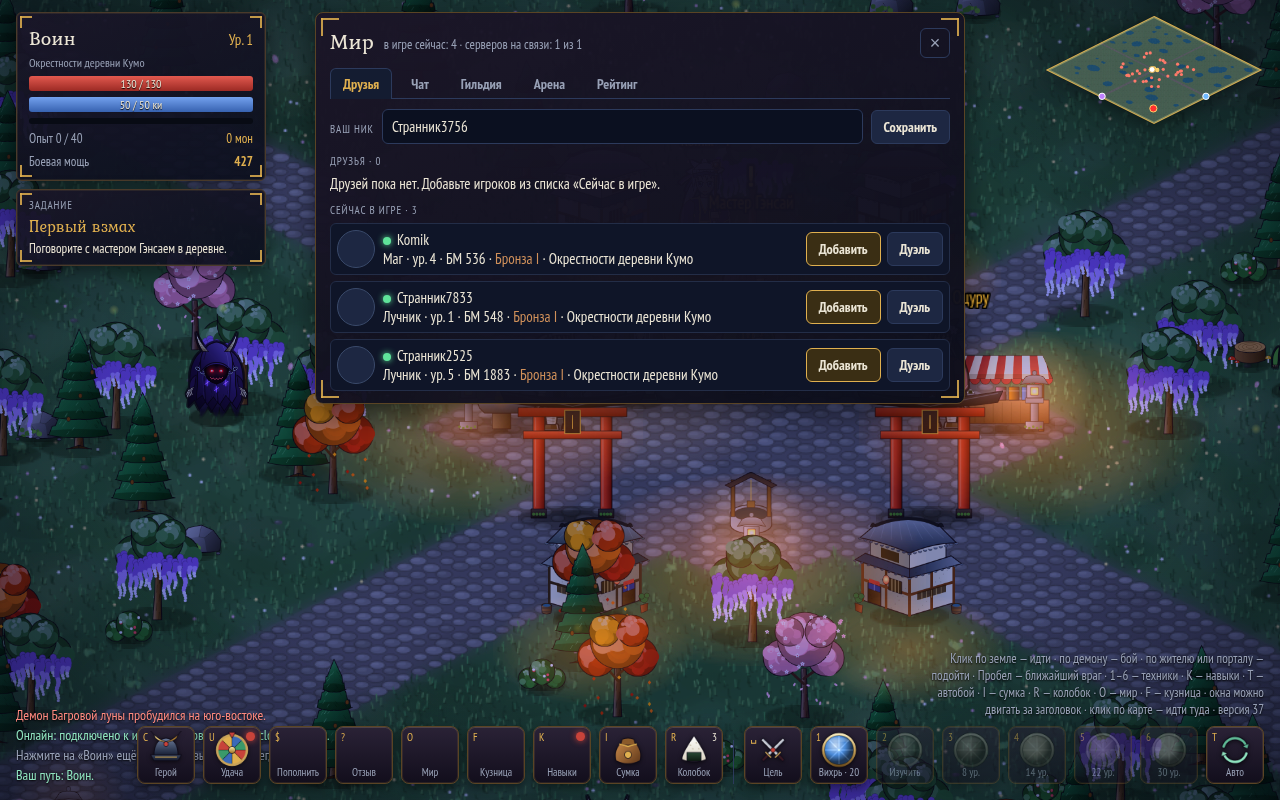
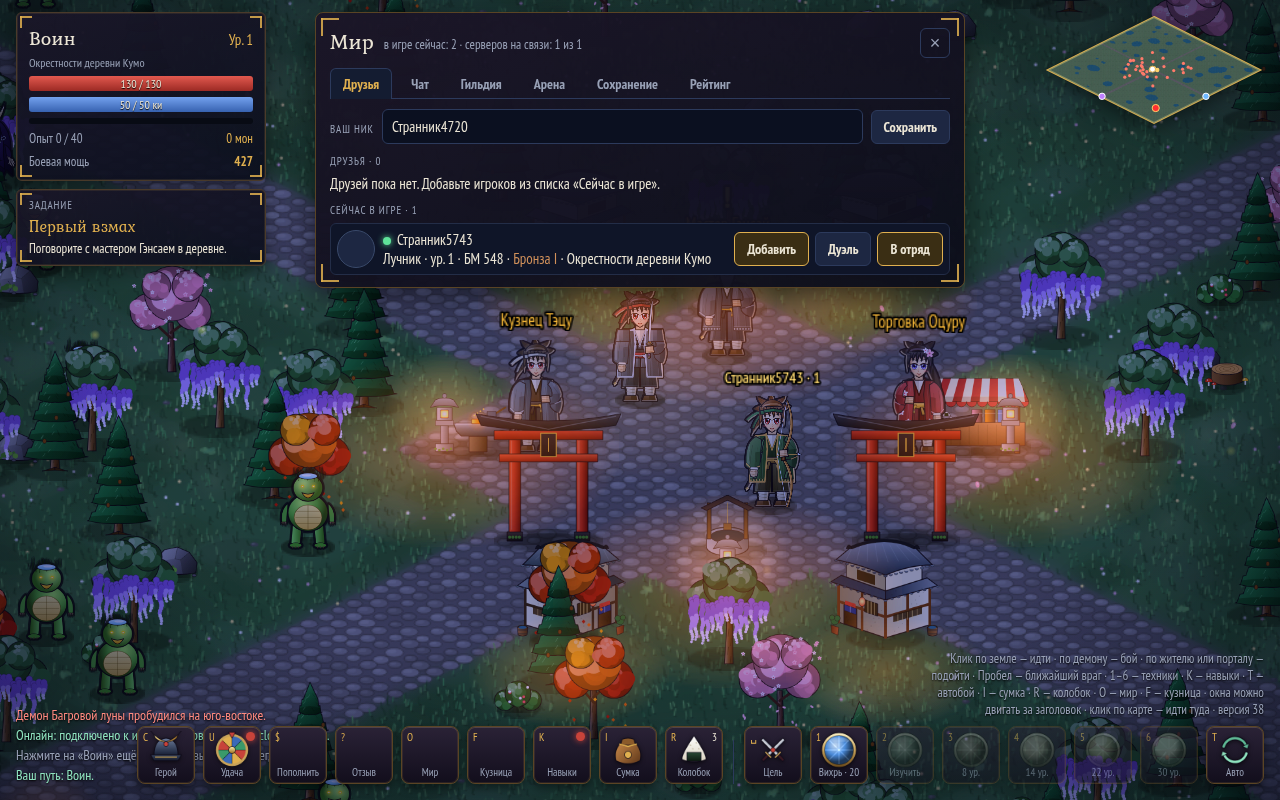
Проверка двумя браузерами

diff --git a/diag/e2e.md b/diag/e2e.md
@@ -1,32 +1,23 @@
 # Проверка двумя браузерами
 
-Время: 29.10.2026, 17:37:54
+Время: 29.10.2026, 18:44:15
 
 ## Браузер 1
 
-**Заголовок «Мир»:** в игре сейчас: 4 · серверов на связи: 1 из 1
+**Заголовок «Мир»:** в игре сейчас: 2 · серверов на связи: 1 из 1
 
 ```
 ВАШ НИК
 Сохранить
 ДРУЗЬЯ · 0
 Друзей пока нет. Добавьте игроков из списка «Сейчас в игре».
-СЕЙЧАС В ИГРЕ · 3
-術
-Komik
-Маг · ур. 4 · БМ 536 · Бронза I · Окрестности деревни Кумо
-Добавить
-Дуэль
+СЕЙЧАС В ИГРЕ · 1
 弓
-Странник7833
+Странник5743
 Лучник · ур. 1 · БМ 548 · Бронза I · Окрестности деревни Кумо
 Добавить
 Дуэль
-弓
-Странник2525
-Лучник · ур. 5 · БМ 1883 · Бронза I · Окрестности деревни Кумо
-Добавить
-Дуэль
+В отряд
 ```
 
 **Журнал игры:**
@@ -39,17 +30,14 @@ Komik
 
 **Консоль и сеть:**
 ```
-warning: [.WebGL-0x3ac4031db000]GL Driver Message (OpenGL, Performance, GL_CLOSE_PATH_NV, High): GPU stall due to ReadPixels
-warning: [.WebGL-0x3ac4031db000]GL Driver Message (OpenGL, Performance, GL_CLOSE_PATH_NV, High): GPU stall due to ReadPixels
-warning: [.WebGL-0x3ac4031db000]GL Driver Message (OpenGL, Performance, GL_CLOSE_PATH_NV, High): GPU stall due to ReadPixels
-warning: [.WebGL-0x3ac4031db000]GL Driver Message (OpenGL, Performance, GL_CLOSE_PATH_NV, High): GPU stall due to ReadPixels (this message will no longer repeat)
+warning: [.WebGL-0x3c3403059200]GL Driver Message (OpenGL, Performance, GL_CLOSE_PATH_NV, High): GPU stall due to ReadPixels
+warning: [.WebGL-0x3c3403059200]GL Driver Message (OpenGL, Performance, GL_CLOSE_PATH_NV, High): GPU stall due to ReadPixels
+warning: [.WebGL-0x3c3403059200]GL Driver Message (OpenGL, Performance, GL_CLOSE_PATH_NV, High): GPU stall due to ReadPixels
+warning: [.WebGL-0x3c3403059200]GL Driver Message (OpenGL, Performance, GL_CLOSE_PATH_NV, High): GPU stall due to ReadPixels (this message will no longer repeat)
 ws open wss://public.cloud.shiftr.io/
 ws sent 1 frames to wss://public.cloud.shiftr.io/
 ws sent 5 frames to wss://public.cloud.shiftr.io/
-ws open wss://public.cloud.shiftr.io/
-ws sent 1 frames to wss://public.cloud.shiftr.io/
-ws sent 5 frames to wss://public.cloud.shiftr.io/
-ws close wss://public.cloud.shiftr.io/
+ws sent 20 frames to wss://public.cloud.shiftr.io/
 ws open wss://public.cloud.shiftr.io/
 ws sent 1 frames to wss://public.cloud.shiftr.io/
 ws sent 5 frames to wss://public.cloud.shiftr.io/
@@ -58,45 +46,24 @@ ws open wss://public.cloud.shiftr.io/
 ws sent 1 frames to wss://public.cloud.shiftr.io/
 ws sent 5 frames to wss://public.cloud.shiftr.io/
 ws close wss://public.cloud.shiftr.io/
-ws open wss://public.cloud.shiftr.io/
-ws sent 1 frames to wss://public.cloud.shiftr.io/
-ws close wss://public.cloud.shiftr.io/
-ws sent 5 frames to wss://public.cloud.shiftr.io/
-ws open wss://public.cloud.shiftr.io/
-ws sent 1 frames to wss://public.cloud.shiftr.io/
-ws close wss://public.cloud.shiftr.io/
-ws sent 5 frames to wss://public.cloud.shiftr.io/
-ws open wss://public.cloud.shiftr.io/
-ws sent 1 frames to wss://public.cloud.shiftr.io/
-ws close wss://public.cloud.shiftr.io/
-ws sent 5 frames to wss://public.cloud.shiftr.io/
 ```
 
 ## Браузер 2
 
-**Заголовок «Мир»:** в игре сейчас: 4 · серверов на связи: 1 из 1
+**Заголовок «Мир»:** в игре сейчас: 2 · серверов на связи: 1 из 1
 
 ```
 ВАШ НИК
 Сохранить
 ДРУЗЬЯ · 0
 Друзей пока нет. Добавьте игроков из списка «Сейчас в игре».
-СЕЙЧАС В ИГРЕ · 3
+СЕЙЧАС В ИГРЕ · 1
 剣
-Странник3756
+Странник4720
 Воин · ур. 1 · БМ 427 · Бронза I · Окрестности деревни Кумо
 Добавить
 Дуэль
-術
-Komik
-Маг · ур. 4 · БМ 536 · Бронза I · Окрестности деревни Кумо
-Добавить
-Дуэль
-弓
-Странник2525
-Лучник · ур. 5 · БМ 1883 · Бронза I · Окрестности деревни Кумо
-Добавить
-Дуэль
+В отряд
 ```
 
 **Журнал игры:**
@@ -115,17 +82,10 @@ ws sent 5 frames to wss://public.cloud.shiftr.io/
 ws open wss://public.cloud.shiftr.io/
 ws sent 1 frames to wss://public.cloud.shiftr.io/
 ws sent 5 frames to wss://public.cloud.shiftr.io/
+ws sent 20 frames to wss://public.cloud.shiftr.io/
 ws close wss://public.cloud.shiftr.io/
 ws open wss://public.cloud.shiftr.io/
 ws sent 1 frames to wss://public.cloud.shiftr.io/
 ws sent 5 frames to wss://public.cloud.shiftr.io/
 ws close wss://public.cloud.shiftr.io/
-ws open wss://public.cloud.shiftr.io/
-ws sent 1 frames to wss://public.cloud.shiftr.io/
-ws sent 5 frames to wss://public.cloud.shiftr.io/
-ws close wss://public.cloud.shiftr.io/
-ws open wss://public.cloud.shiftr.io/
-ws sent 1 frames to wss://public.cloud.shiftr.io/
-ws close wss://public.cloud.shiftr.io/
-ws sent 5 frames to wss://public.cloud.shiftr.io/
 ```
